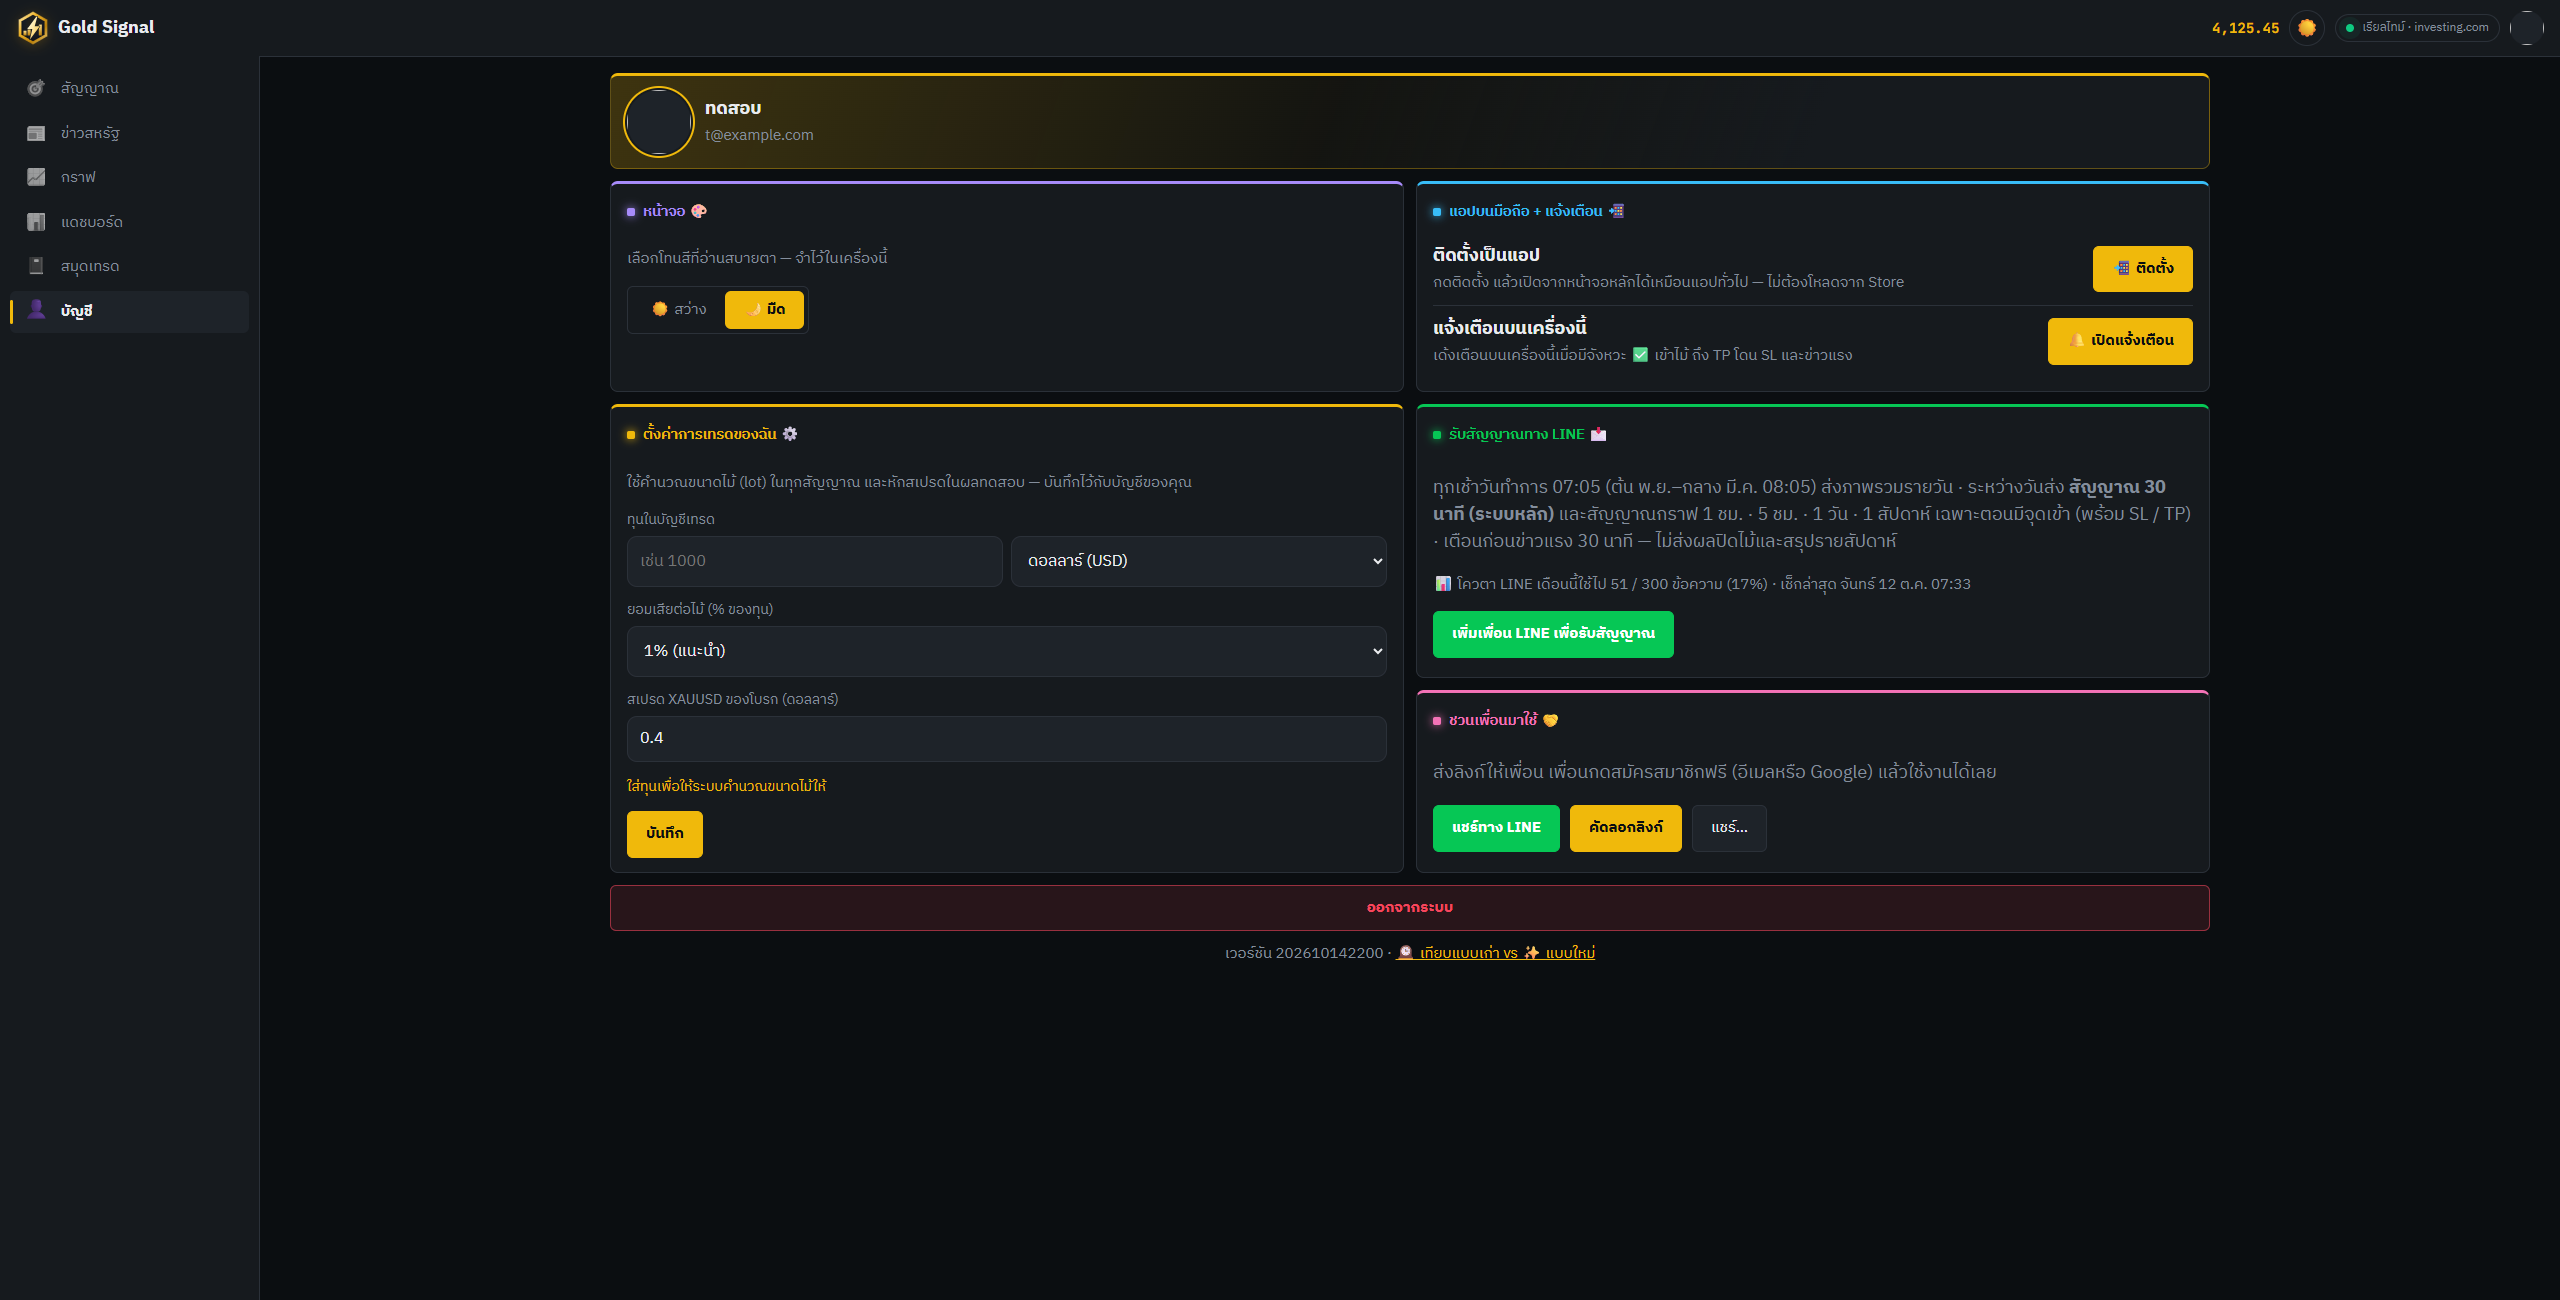
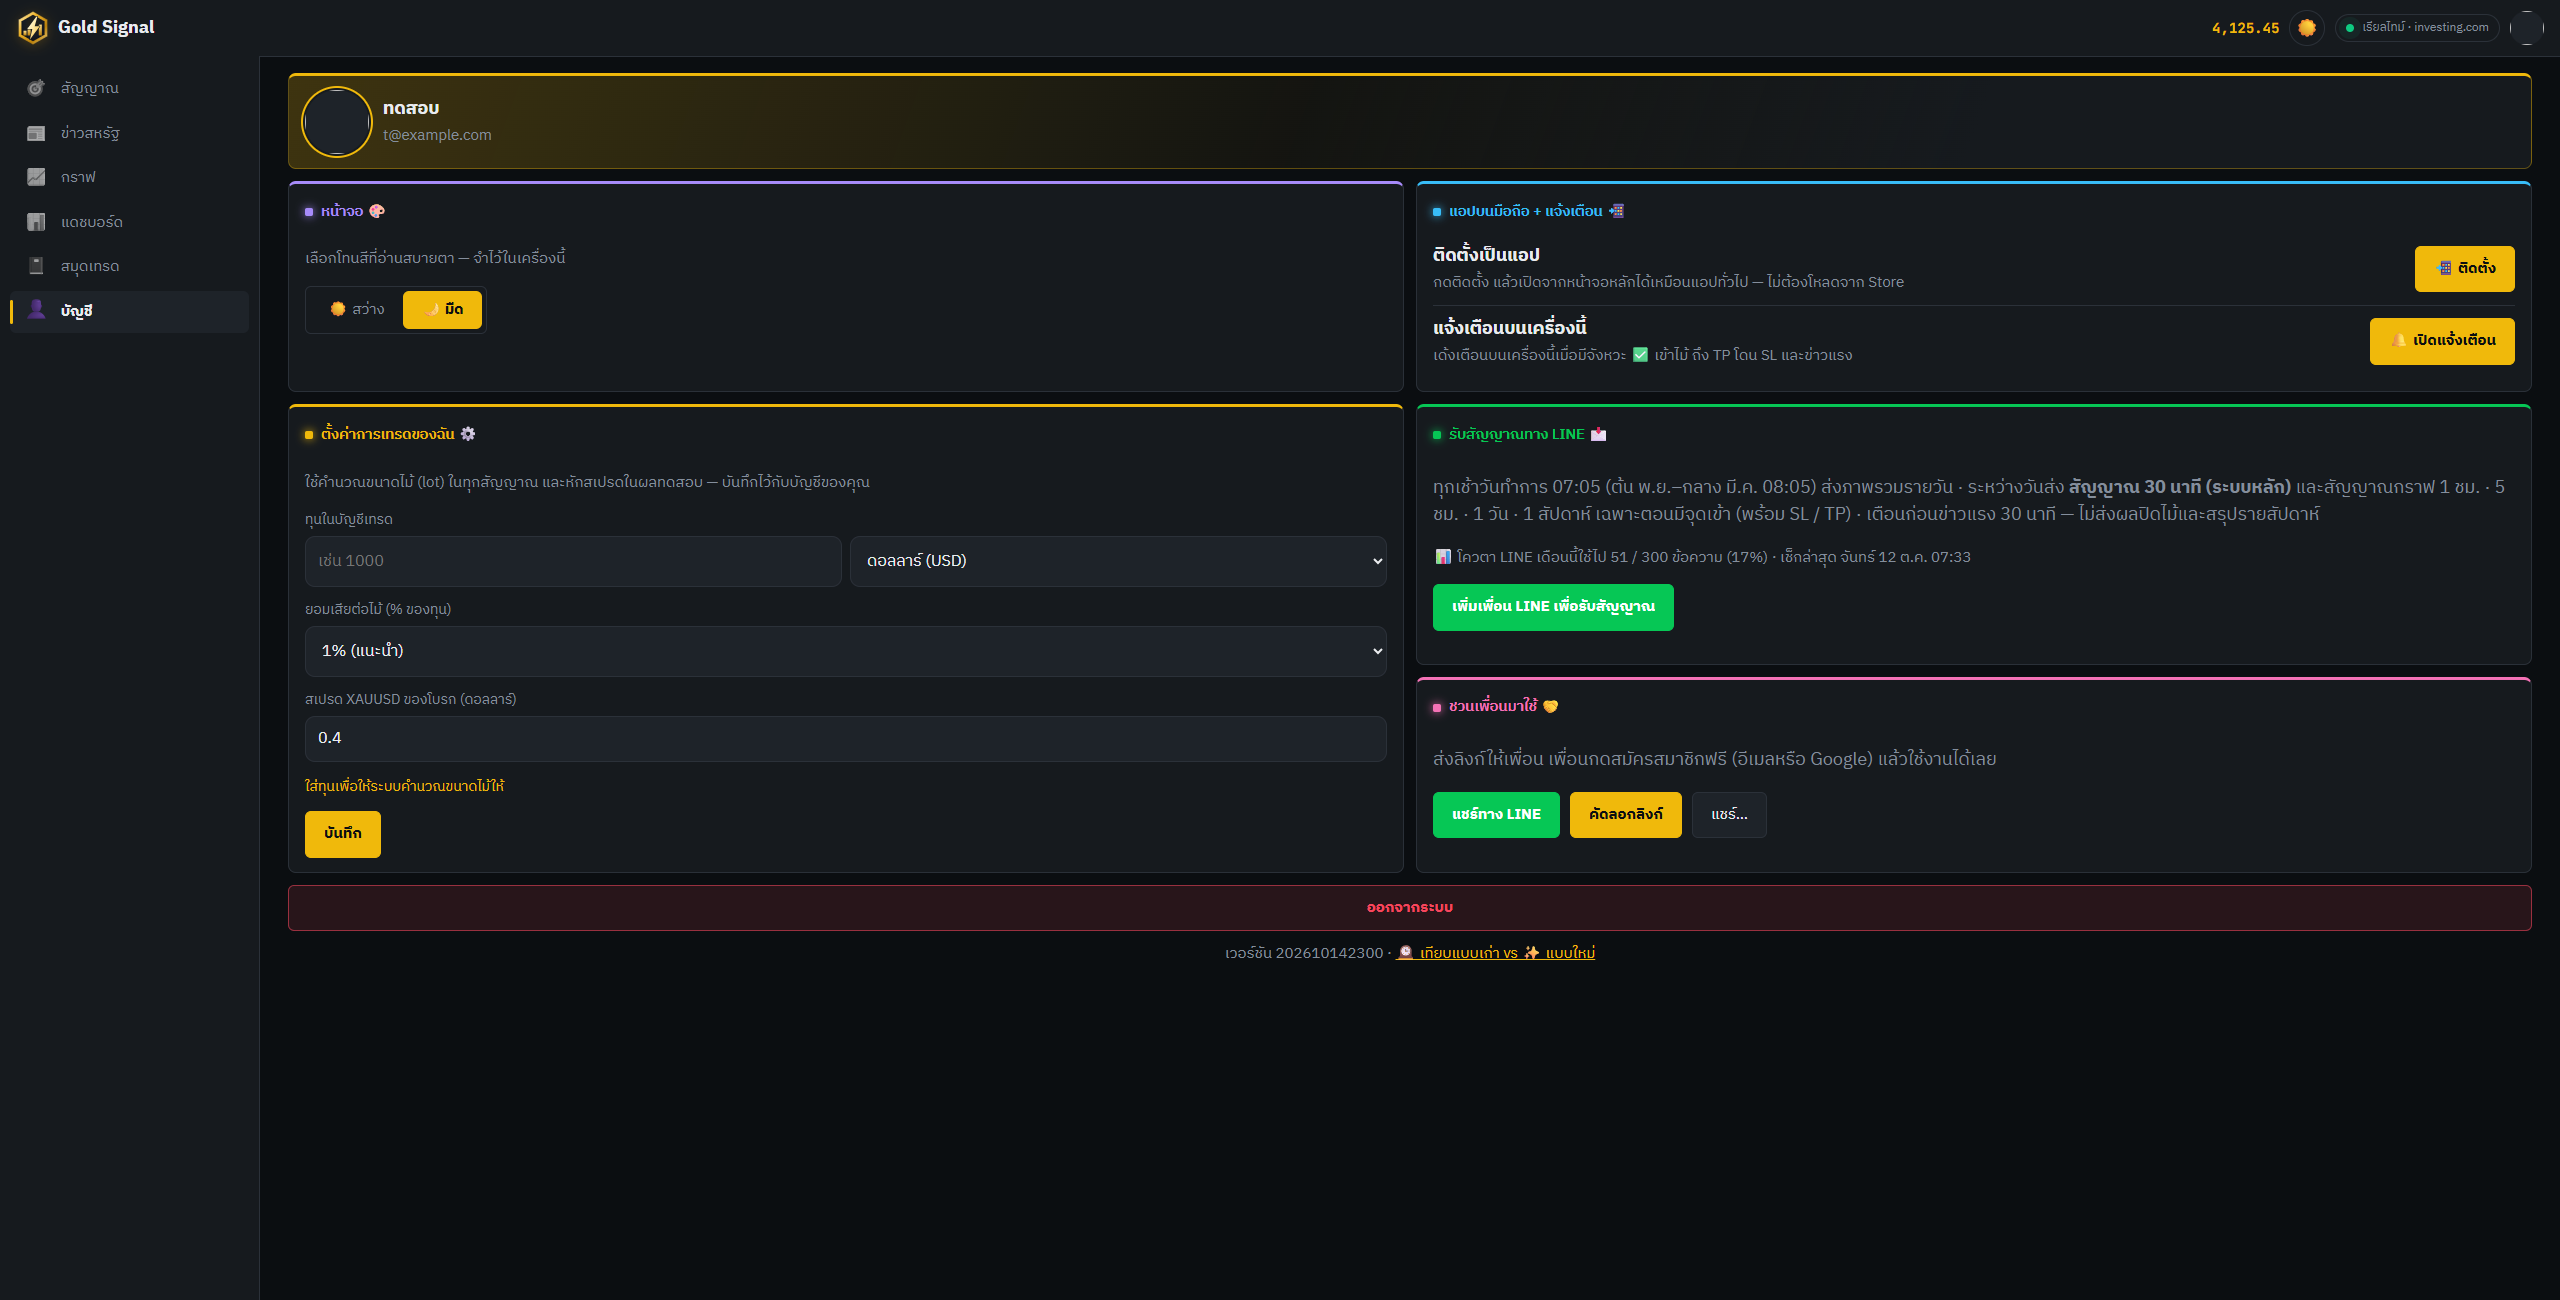
Account tab full width like the other tabs

diff --git a/index.html b/index.html
@@ -21,7 +21,7 @@
   <link rel="stylesheet" href="live.css?v=202610141600">
   <link rel="stylesheet" href="theme.css?v=202610141700" id="themeLight">
   <link rel="stylesheet" href="design.css?v=202610141800">
-  <link rel="stylesheet" href="terminal.css?v=202610142200">
+  <link rel="stylesheet" href="terminal.css?v=202610142300">
   <script>/* apply the saved theme before the first paint */ var gsT = "dark"; try { gsT = localStorage.getItem("gs-theme") === "light" ? "light" : "dark"; } catch (e) {} /* dark trading terminal = default since 14 Oct 2026 */ if (gsT === "dark") { document.getElementById("themeLight").disabled = true; document.documentElement.classList.add("dark"); document.querySelector("meta[name=theme-color]").content = "#0b0e11"; }</script>
   <script src="https://unpkg.com/lightweight-charts@4.2.0/dist/lightweight-charts.standalone.production.js"></script>
 </head>
@@ -540,7 +540,7 @@
 
         <a class="btn gold wide admin-link" id="adminLink" href="/admin.html" hidden>🛠 หลังบ้าน — สมาชิกและการเข้าใช้งาน</a>
         <button class="btn danger wide" id="signOut">ออกจากระบบ</button>
-        <p class="muted small center">เวอร์ชัน 202610142200 · <a href="compare.html">🕰 เทียบแบบเก่า vs ✨ แบบใหม่</a></p>
+        <p class="muted small center">เวอร์ชัน 202610142300 · <a href="compare.html">🕰 เทียบแบบเก่า vs ✨ แบบใหม่</a></p>
       </section>
     </main>
   </div>

diff --git a/compare.html b/compare.html
@@ -39,6 +39,15 @@
   <p class="lead">สิ่งที่เปลี่ยนในแต่ละรอบของ Gold Signal · <a href="./">กลับไปที่เว็บ</a></p>
 
   <section>
+    <h2>↔ หน้าบัญชีเต็มความกว้างจอ</h2>
+    <p class="date">14 ต.ค. 2569</p>
+    <div class="pair">
+      <div class="side old"><h3>🕰 แบบเก่า — ผู้ใช้: "ทำไมไม่ชิดขอบ ช่องเว้นเยอะมาก"</h3><img loading="lazy" src="compare/acc4-old.png" alt="หน้าบัญชีเว้นขอบ"></div>
+      <div class="side new"><h3>✨ แบบใหม่ — เต็มความกว้างเหมือนหน้าอื่น (จอ 2560px)</h3><img loading="lazy" src="compare/acc4-new-2560.png" alt="หน้าบัญชีเต็มจอ"></div>
+    </div>
+  </section>
+
+  <section>
     <h2>⚖ หน้าบัญชี: 2 คอลัมน์สูงเท่ากัน</h2>
     <p class="date">14 ต.ค. 2569</p>
     <div class="pair">

diff --git a/terminal.css b/terminal.css
@@ -87,7 +87,7 @@ html.dark #setSave, html.dark #pwaPush, html.dark #shareCopy { background: var(-
 html.dark .seg button.on { background: var(--gold) !important; color: #0b0e11 !important; box-shadow: none !important; }
 
 /* account: sections with a coloured top edge + tinted heading chip; readable width on very wide screens */
-html.dark #tab-account { --acc: var(--gold); max-width: 1600px; margin-inline: auto; }
+html.dark #tab-account { --acc: var(--gold); } /* full width like the other tabs (user 14 Oct: "ทำไม่ชิดขอบ ช่องเว้นเยอะมาก") */
 /* two balanced columns, cards stretched so nothing is left empty (user 14 Oct: "ทำไมแบบนี้", then a screenshot of the
    short right column). Left: หน้าจอ + ตั้งค่า · right: แอป + LINE + ชวนเพื่อน (source order 2..6) */
 @media (min-width: 1100px) {

diff --git a/Skill.md b/Skill.md
@@ -365,6 +365,10 @@ gh workflow run price-alerts.yml -R tanakrthum254614-max/gold-signal -f send=fal
 
 > จัดเรียงใหม่ 14 ต.ค. 2569: เนื้อหาเดิมครบทุกหัวข้อ แค่เรียงตามวันที่ (ใหม่ → เก่า) · งานใหม่ให้เพิ่มหัวข้อไว้บนสุดของส่วนนี้
 
+## ↔ หน้าบัญชีเต็มความกว้างจอ (14 ต.ค. 2569 · เวอร์ชัน 202610142300)
+- ผู้ใช้ (รูป ~1900px): "ทำไมไม่ชิดขอบ ช่องเว้นเยอะมาก" → เอา `max-width: 1600px; margin-inline: auto` ของ `#tab-account` ออก (ผู้ใช้ชอบเต็มจอเหมือนหน้าอื่น — **อย่าจำกัดความกว้างหน้าใดหน้าหนึ่งเอง**)
+- วัด acc.cjs: จอ 2560 การ์ดเริ่มที่ 288px (เดิม 610) · 2 คอลัมน์ยังจบระดับเดียวกัน · ไม่ล้น ไม่มี error
+
 ## ⚖ หน้าบัญชี 2 คอลัมน์สูงเท่ากัน (14 ต.ค. 2569 · เวอร์ชัน 202610142200)
 - ผู้ใช้ส่งรูป (ไม่มีข้อความ) หลัง CSS columns: คอลัมน์ซ้ายยาว (หน้าจอ+แอป+ตั้งค่า) ขวาสั้น (LINE+ชวนเพื่อน) → ที่ว่างใหญ่ขวาล่าง
 - terminal.css ≥1100px: grid 2 คอลัมน์วางเอง (ตามลำดับ section.card ใน HTML): 2 หน้าจอ = ซ้ายแถว 2 · 3 แอป = ขวาแถว 2 · 4 ตั้งค่า = ซ้ายแถว 3–4 · 5 LINE = ขวาแถว 3 · 6 ชวนเพื่อน = ขวาแถว 4 · align stretch (การ์ดยืดเต็มช่อง) · max-width 1600 · **เพิ่ม/ย้ายการ์ดในหน้าบัญชี = ต้องแก้ตำแหน่ง nth-of-type ด้วย**
